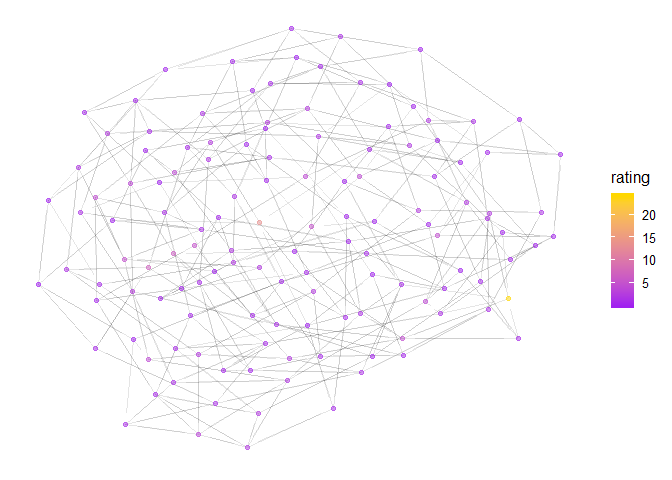
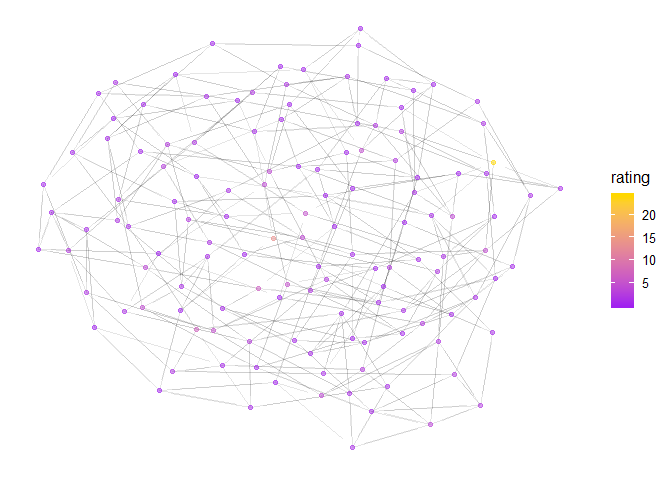
Adding arrows

diff --git a/RankAndNetwork.md b/RankAndNetwork.md
@@ -1,5 +1,5 @@
 ---
-title: "R Notebook"
+title: "Football Rankings"
 output: 
   html_document: 
     keep_md: yes
@@ -133,9 +133,9 @@ ggplot(net, aes(x = x, y = y, xend = xend, yend = yend))+
 net<-ggnetwork(n %s% which( n %v% "rank" < 26), layout="fruchtermanreingold")
 #net<-ggnetwork(n , layout="fruchtermanreingold")
 ggplot(net, aes(x = x, y = y, xend = xend, yend = yend))+
-  geom_edges(aes(alpha=WinStrength), curvature = 0.2)+
+  geom_edges(aes(alpha=WinStrength), curvature = 0.2, arrow = arrow(length=unit(2, "points")))+
   geom_nodes(  ) +theme_blank()+
-  geom_nodelabel_repel(aes(label=vertex.names, fill=rank))+
+  geom_nodelabel_repel(aes(label=vertex.names, fill=rating))+
   scale_color_gradient(low="purple", high="gold")+
   scale_fill_gradient(low="gold", high="purple")
 ```
@@ -228,9 +228,9 @@ ggplot(net, aes(x = x, y = y, xend = xend, yend = yend))+
 net<-ggnetwork(n %s% which( n %v% "rank" < 26), layout="fruchtermanreingold")
 #net<-ggnetwork(n , layout="fruchtermanreingold")
 ggplot(net, aes(x = x, y = y, xend = xend, yend = yend))+
-  geom_edges(aes(alpha=WinStrength), curvature = 0.2)+
+  geom_edges(aes(alpha=WinStrength), curvature = 0.2, arrow = arrow(length=unit(2, "points")))+
   geom_nodes(  ) +theme_blank()+
-  geom_nodelabel_repel(aes(label=vertex.names, fill=rank))+
+  geom_nodelabel_repel(aes(label=vertex.names, fill=rating))+
   scale_color_gradient(low="purple", high="gold")+
   scale_fill_gradient(low="gold", high="purple")
 ```
